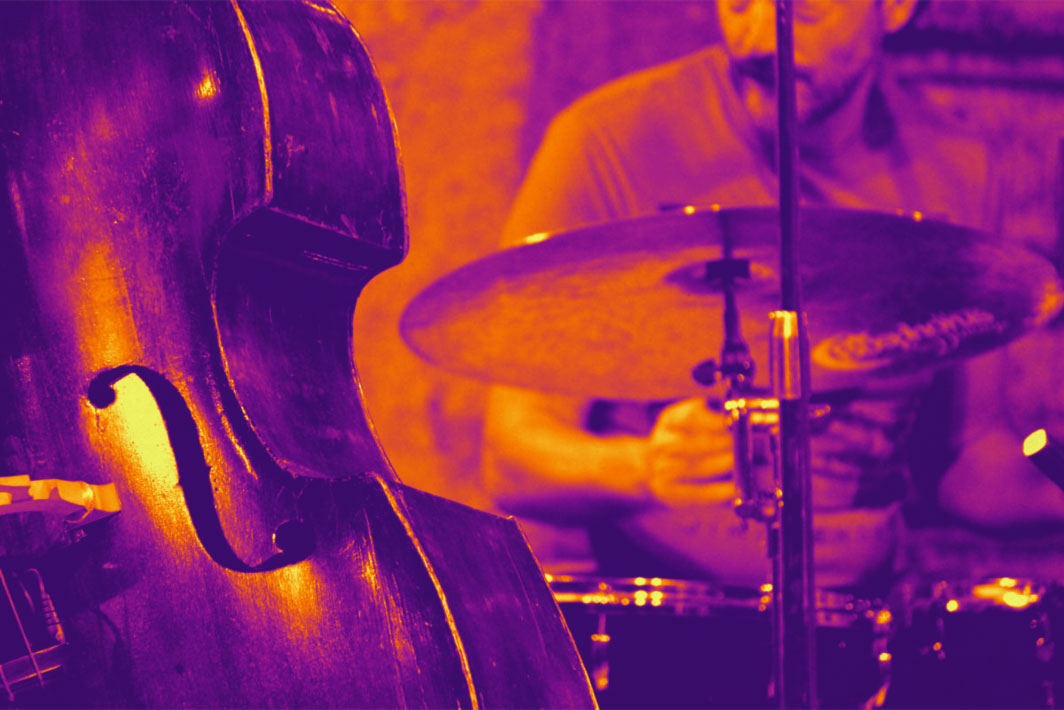
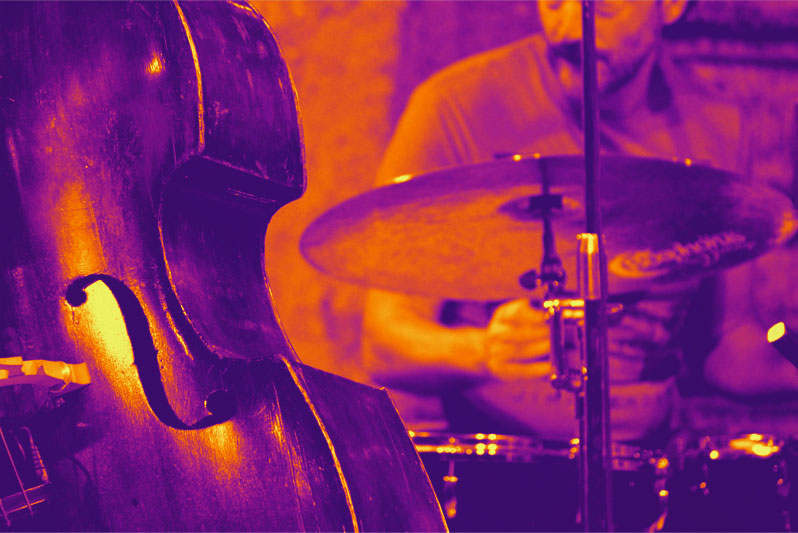
Fixed z-index issue, replaced single LP cover bg with layered bg images
Links in the liner section were being obscured by an element above them,
so tweaked the z-indexes of all elements to make sure they weren't
buried.

diff --git a/06 CSS Zen Garden/style.css b/06 CSS Zen Garden/style.css
@@ -55,11 +55,12 @@ header h2::after {
 
 header::after {
 	content: url(panel-01-distress.png);
-	z-index:2;
+	z-index: 2;
 	float: left;
-	position:absolute;
-	margin-top:-354px;
-	opacity:0.6;
+	position: absolute;
+	margin-top: -355px;
+	margin-left: -1px;
+	opacity: 0.6;
 }
 
 html {
@@ -67,7 +68,7 @@ html {
 	}
 body { 
 	background-color: #e6e6e6;
-	width: 100%;
+	margin: 0;
 	}
 p { 
 
@@ -94,7 +95,7 @@ abbr {
 
 /* specific divs */
 .page-wrapper { 
-	padding: 0 175px 0 110px;  
+	padding: 25px;  
 	margin: 0; 
 	position: relative;
 	}
@@ -133,14 +134,18 @@ header h2 {
 header {
 	width: 827px;
 	height: 827px;
-	background-image: url(panel-01-lp-bg.jpg);
+	background: url(panel-01-jazz.jpg) 12px 280px no-repeat,
+				url(panel-01-bg.png) 0px 0px no-repeat;
 	overflow: hidden;
 	margin-right: 0px;
+	position: absolute;
+	z-index: 2;
 }
 
 .summary {
 	margin: 20px 20px 20px 10px; 
 	font-family: 'Crimson Text', serif;
+	display: none;
 	}
 .summary p {
 	font: italic 1.1em/2.2; 
@@ -168,17 +173,17 @@ footer a:link, footer a:visited {
 	margin-right: 20px; 
 	}
 
-div #zen-supporting {
+div .supporting {
 	width: 804px;
 	height: 815px;
 	overflow: hidden;
 	background: url(panel-02-sleeve-bg.jpg) no-repeat;
-	z-index: -1;
+	z-index: 1;
 	float: left;
 	position: absolute;
 	clear:both;
-	left: 800px;
-	top: 4px;
+	left: 730px;
+	top: 43px;
 }
 
 .summary, .preamble, .explanation, .participation, .benefits, .requirements {
@@ -266,9 +271,9 @@ div #zen-supporting {
 .extra1 {
 	background: url(panel-03-vinyl.png) top left no-repeat; 
 	position: absolute;
-	z-index: -2;
-	top: 12px; 
-	left: 1612px; 
+	z-index: 0;
+	top: 43px; 
+	left: 1534px; 
 	width: 506px; 
 	height: 815px;
 	}
